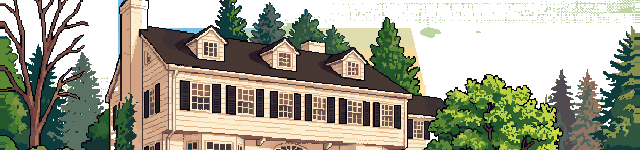
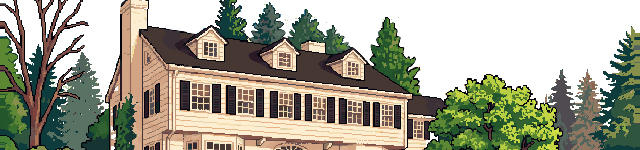
Start the tea party from anywhere on the playhouse table
The table's own hotspot is gone; the tea party's footprint takes in the
table top and the three legs as well as the tea set, so clicking any part
of the table starts the game rather than only the top half of it.

The floor between the legs stays open, since the garage key hides there
on some seeds and has to stay findable. A test walks the top and every
leg, and checks the key still wins in the gap.

The table's three flavour lines go with its hotspot.

diff --git a/tests/playhouse-table.test.ts b/tests/playhouse-table.test.ts
@@ -1,0 +1,66 @@
+import { describe, expect, it } from 'vitest';
+import { ROOMS } from '../src/data/rooms';
+import { placeRoom, spotIndex } from '../src/puzzles/spots';
+import { hitRects, pick } from '../src/systems/Hitbox';
+
+/*
+ * The whole of the little table starts the tea party: the tea set on it, the table top and the
+ * legs under it. The floor between the legs stays open, because the garage key may be hidden
+ * there and has to stay findable.
+ */
+
+const room = ROOMS.playhouse;
+const tea = room.hotspots.find((h) => h.id === 'tea_set')!;
+/** The spot under the table, as the room data lists it. */
+const key = room.hotspots.find((h) => h.id === 'garage_key')!;
+const underTable = key.kind === 'pickup' ? key.spots!.find((s) => s.where === 'under the table')! : undefined!;
+
+describe('the playhouse table', () => {
+  it('has no separate furniture hotspot left on it', () => {
+    expect(room.hotspots.find((h) => h.id === 'table')).toBeUndefined();
+  });
+
+  it('starts the tea party from the table top and from every leg', () => {
+    const [top, ...legs] = hitRects(tea);
+    for (const rect of [top, ...legs]) {
+      for (const [x, y] of [
+        [rect.x + 1, rect.y + 1],
+        [rect.x + rect.w / 2, rect.y + rect.h / 2],
+        [rect.x + rect.w - 1, rect.y + rect.h - 1],
+      ]) {
+        expect(pick(room.hotspots, x, y)?.id, `table part at ${x},${y}`).toBe('tea_set');
+      }
+    }
+  });
+
+  it('covers the table top and three legs, and nothing else', () => {
+    const rects = hitRects(tea);
+    expect(rects).toHaveLength(4);
+    // The gap between the legs is not part of it.
+    const gap = { x: 100, y: 344 };
+    expect(rects.some((r) => gap.x >= r.x && gap.x <= r.x + r.w && gap.y >= r.y && gap.y <= r.y + r.h)).toBe(false);
+  });
+
+  it('still lets the key be picked up from under the table', () => {
+    const z = underTable.zone;
+    const placed = { ...room, hotspots: room.hotspots.map((h) => (h.id === 'garage_key' ? { ...h, zone: z } : h)) };
+    for (const [x, y] of [
+      [z.x + 1, z.y + 1],
+      [z.x + z.w / 2, z.y + z.h / 2],
+      [z.x + z.w - 1, z.y + z.h - 1],
+    ]) {
+      expect(pick(placed.hotspots, x, y)?.id, `key under the table at ${x},${y}`).toBe('garage_key');
+    }
+  });
+
+  it('puts the key under the table on some seeds, so that case is real', () => {
+    const idx = key.kind === 'pickup' ? key.spots!.indexOf(underTable) : -1;
+    const seeds = [];
+    for (let seed = 0; seed < 60; seed++) if (spotIndex(seed, 'playhouse', 'garage_key', 3) === idx) seeds.push(seed);
+    expect(seeds.length).toBeGreaterThan(0);
+    // And on such a seed the placed room still resolves both.
+    const placed = placeRoom(room, seeds[0]);
+    const z = underTable.zone;
+    expect(pick(placed.hotspots, z.x + z.w / 2, z.y + z.h / 2)?.id).toBe('garage_key');
+  });
+});

diff --git a/src/data/rooms/playhouse.ts b/src/data/rooms/playhouse.ts
@@ -48,20 +48,20 @@ export const playhouse: Room = {
         { zone: { x: 100, y: 332, w: 24, h: 24 }, walkTo: { x: 112, y: 385 }, where: 'under the table' },
       ],
     },
-    // Lucy's tea set and the whole table top with it: the tea party game.
-    { kind: 'minigame', id: 'tea_set', game: 'tea', zone: { x: 65, y: 240, w: 150, h: 89 }, walkTo: { x: 150, y: 385 } },
+    // Lucy's tea set, the table top it stands on and the legs under it: anywhere on the table
+    // starts the tea party. The floor between the legs is left open, since a key hides there.
     {
-      kind: 'decoration',
-      id: 'table',
-      // Just the legs: the top belongs to the tea party above, and the floor between them is open.
-      zone: { x: 65, y: 329, w: 150, h: 31 },
+      kind: 'minigame',
+      id: 'tea_set',
+      game: 'tea',
+      zone: { x: 65, y: 240, w: 150, h: 120 },
       parts: [
+        { x: 65, y: 240, w: 150, h: 89 },
         { x: 65, y: 329, w: 22, h: 31 },
         { x: 140, y: 329, w: 17, h: 31 },
         { x: 195, y: 329, w: 20, h: 31 },
       ],
-      lines: ['A little table, just my size.', 'We have tea parties here.', 'Lucy bumped her head on it once.'],
-      sfx: 'click',
+      walkTo: { x: 150, y: 385 },
     },
     { kind: 'decoration', id: 'window', zone: { x: 30, y: 120, w: 130, h: 110 }, lines: ['I can see the whole yard from here.', 'The trees are waving at us.', 'Sometimes a bird lands right there.'], sfx: 'click' },
     { kind: 'decoration', id: 'teddy', zone: { x: 220, y: 215, w: 60, h: 105 }, lines: ['Hi, Mr. Bear!', 'Mr. Bear is very good at waiting.', 'He needs a hug.'], sfx: 'squeak' },
